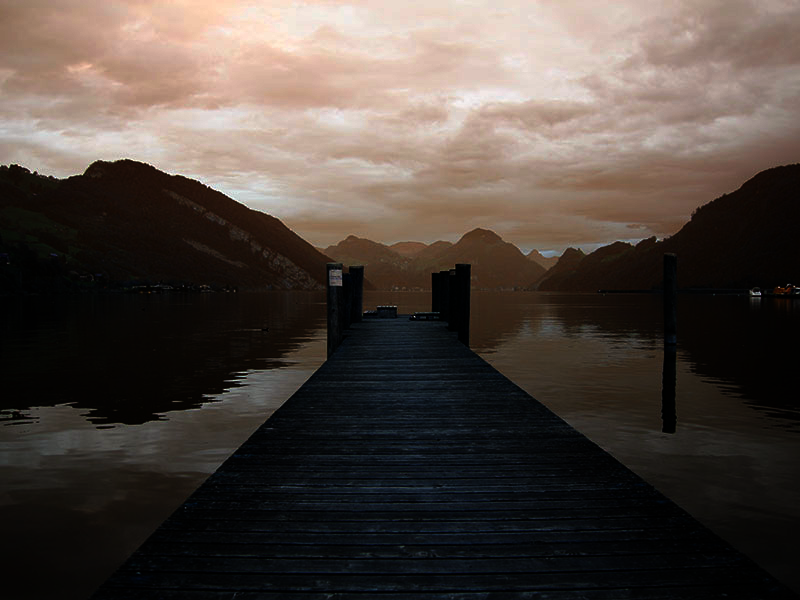
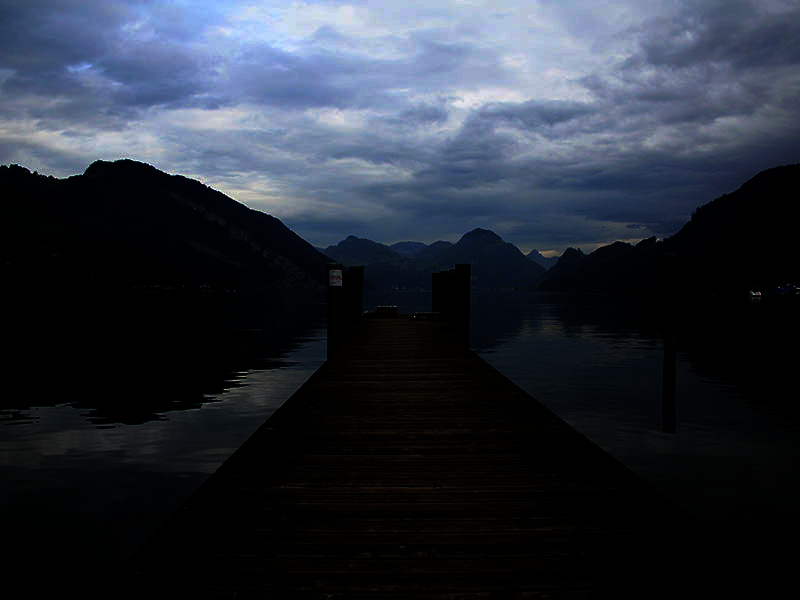
Пофиксил фильтр гаусса, пофиксил brg

diff --git a/ImageProcessingFast.py b/ImageProcessingFast.py
@@ -22,12 +22,13 @@ class ImageProcessingFast:
         self.width_original_image = self.original_image.shape[0]
         self.height_original_image = self.original_image.shape[1]
 
-    def load_image(self, filename):
+    @staticmethod
+    def load_image(filename):
         if filename:
             folder_name = os.path.basename(os.path.dirname(filename))
             image_name = os.path.basename(filename)
-            self.original_image = cv2.imread(str(os.path.join(folder_name, image_name)))
-            return copy.deepcopy(self.original_image)
+            original_image = cv2.imread(str(os.path.join(folder_name, image_name)))
+            return copy.deepcopy(original_image)
         return None
 
     def logarithmic_transform(self):
@@ -45,7 +46,9 @@ class ImageProcessingFast:
         # Обработка значений, равных нулю
         log_transformed[np.isnan(log_transformed)] = 0
 
-        return log_transformed
+        log_transformed_rgb = cv2.cvtColor(log_transformed.astype(np.uint8), cv2.COLOR_BGR2RGB)
+
+        return log_transformed_rgb
 
     def gamma_transform(self, gamma):
         # Степенное преобразование изображения.
@@ -57,8 +60,9 @@ class ImageProcessingFast:
 
         c = (self.max_palette - self.min_palette) / (self.max_val ** gamma)
         gamma_transformed = c * (self.original_image.astype(np.float32) ** gamma)
+        gamma_transformed_rgb = cv2.cvtColor(gamma_transformed.astype(np.uint8), cv2.COLOR_BGR2RGB)
 
-        return gamma_transformed
+        return gamma_transformed_rgb
 
     def binary_transform(self, threshold):
         # Преобразование (R + G + B) / 3
@@ -73,8 +77,9 @@ class ImageProcessingFast:
 
         # Применяем функцию clip к каждому каналу RGB
         clipped_image = np.clip(self.original_image, lower_bound, upper_bound)
+        clipped_image_rgb = cv2.cvtColor(clipped_image.astype(np.uint8), cv2.COLOR_BGR2RGB)
 
-        return clipped_image
+        return clipped_image_rgb
 
     def apply_rectangular_filter(self, kernel_size):
         # Применение прямоугольного фильтра к изображению.
@@ -99,9 +104,11 @@ class ImageProcessingFast:
                     region = padded_image[i:i + kernel_size, j:j + kernel_size, c]
                     # Применяем ядро к области и записываем результат
                     filtered_pixel = np.sum(region * kernel)
-                    filtered_image[i, j, 2 - c] = filtered_pixel
+                    filtered_image[i, j, c] = filtered_pixel
 
-        return filtered_image
+        filtered_image_rgb = cv2.cvtColor(filtered_image.astype(np.uint8), cv2.COLOR_BGR2RGB)
+
+        return filtered_image_rgb
 
     def apply_median_filter(self, kernel_size):
         """
@@ -129,9 +136,11 @@ class ImageProcessingFast:
                     median_value = np.median(neighborhood)
 
                     # Применяем медианный фильтр
-                    filtered_image[i, j, 2 - c] = median_value
+                    filtered_image[i, j, c] = median_value
 
-        return filtered_image
+        filtered_image_rgb = cv2.cvtColor(filtered_image.astype(np.uint8), cv2.COLOR_BGR2RGB)
+
+        return filtered_image_rgb
 
     @staticmethod
     def gaussian_kernel(kernel_size, sigma):
@@ -155,7 +164,8 @@ class ImageProcessingFast:
 
         return kernel
 
-    def apply_gaussian_filter(self, kernel_size, sigma):
+    def apply_gaussian_filter(self, sigma):
+        kernel_size = int(sigma * 6 + 1)
         filtered_image = np.zeros_like(self.original_image, dtype=float)
 
         # Получаем ядро фильтра Гаусса
@@ -181,9 +191,10 @@ class ImageProcessingFast:
                     weighted_sum /= normalization_factor
 
                     # Записываем в отфильтрованное изображение нормированное значение
-                    filtered_image[x, y, 2 - channel] = weighted_sum
+                    filtered_image[x, y, channel] = weighted_sum
+        filtered_image_rgb = cv2.cvtColor(filtered_image.astype(np.uint8), cv2.COLOR_BGR2RGB)
 
-        return filtered_image
+        return filtered_image_rgb
 
     def apply_sigma_filter(self, kernel_size, sigma_threshold):
         """
@@ -212,7 +223,9 @@ class ImageProcessingFast:
                     # Пиксель считается шумовым, заменяем на среднее значение в окрестности
                     filtered_image[x, y] = np.mean(neighborhood)
 
-        return filtered_image
+        filtered_image_rgb = cv2.cvtColor(filtered_image.astype(np.uint8), cv2.COLOR_BGR2RGB)
+
+        return filtered_image_rgb
 
     @staticmethod
     def absolute_difference(image1_cv, image2_cv):
@@ -239,23 +252,31 @@ class ImageProcessingFast:
             print("Сглаженное изображение отсутствует. Сначала примените сглаживание.")
             return None
 
-        # Получаем размеры изображения
-        height, width, channels = self.original_image.shape
+        # sharpened_image = np.zeros_like(self.original_image)
 
-        # Создаем пустой массив для результирующего изображения
-        sharpened_image = np.zeros((height, width, channels), dtype=np.uint8)
+        original_image = copy.deepcopy(self.original_image)
+        original_image2 = copy.deepcopy(self.original_image)
+        process_image = copy.deepcopy(self.process_image)
+        cv2.imshow("original_image", original_image)
+        cv2.imshow("process_image", process_image)
 
-        # Применяем увеличение резкости пиксель за пикселем
-        for y in range(height):
-            for x in range(width):
-                for c in range(channels):
-                    # Находим разность между оригинальным и сглаженным пикселем
-                    difference = self.original_image[y, x, c] - self.process_image[y, x, c]
-                    # Умножаем разность на коэффициент увеличения резкости и добавляем к оригинальному пикселю
-                    sharpened_pixel = self.original_image[y, x, c] + lambda_sh * difference
-                    # Ограничиваем значения пикселей до диапазона от 0 до 255
-                    sharpened_pixel = max(0, min(sharpened_pixel, 255))
-                    # Записываем значение пикселя в результирующее изображение
-                    sharpened_image[y, x, c] = sharpened_pixel
+        difference = original_image - process_image
+        sharpened_image = original_image2 + lambda_sh * difference
+        sharpened_image = np.clip(sharpened_image, 0, 255)
 
-        return sharpened_image
+        # # Применяем увеличение резкости пиксель за пикселем
+        # for y in range(self.width_original_image):
+        #     for x in range(self.height_original_image):
+        #         for c in range(3):
+        #             # Находим разность между оригинальным и сглаженным пикселем
+        #             difference = self.original_image[y, x, c] - self.process_image[y, x, c]
+        #             # Умножаем разность на коэффициент увеличения резкости и добавляем к оригинальному пикселю
+        #             sharpened_pixel = self.original_image[y, x, c] + lambda_sh * difference
+        #             # Ограничиваем значения пикселей до диапазона от 0 до 255
+        #             sharpened_pixel = max(0, min(sharpened_pixel, 255))
+        #             # Записываем значение пикселя в результирующее изображение
+        #             sharpened_image[y, x, 2 - c] = sharpened_pixel
+
+        sharpened_image_rgb = cv2.cvtColor(sharpened_image.astype(np.uint8), cv2.COLOR_BGR2RGB)
+
+        return sharpened_image_rgb.astype(np.uint8)

diff --git a/main.py b/main.py
@@ -470,11 +470,9 @@ class Ui_MainWindow(object):
 
     def button_gaussian_filter_clicked(self):
         if self.image_exist:
-            kernel_size_text = self.comboBox_gauusa.currentText()
-            kernel_size = int(kernel_size_text)
             sigma = self.doubleSpinBox_gauusa_sigma.value()
             message = "Время работы гауссова фильтра: {:.2f} с"
-            self.measure_time_and_run_method(self.image_processing.apply_gaussian_filter, kernel_size, sigma,
+            self.measure_time_and_run_method(self.image_processing.apply_gaussian_filter, sigma,
                                              message=message, choice=2)
         else:
             self.show_error_message("Ошибка", "Изображение не загружено")
